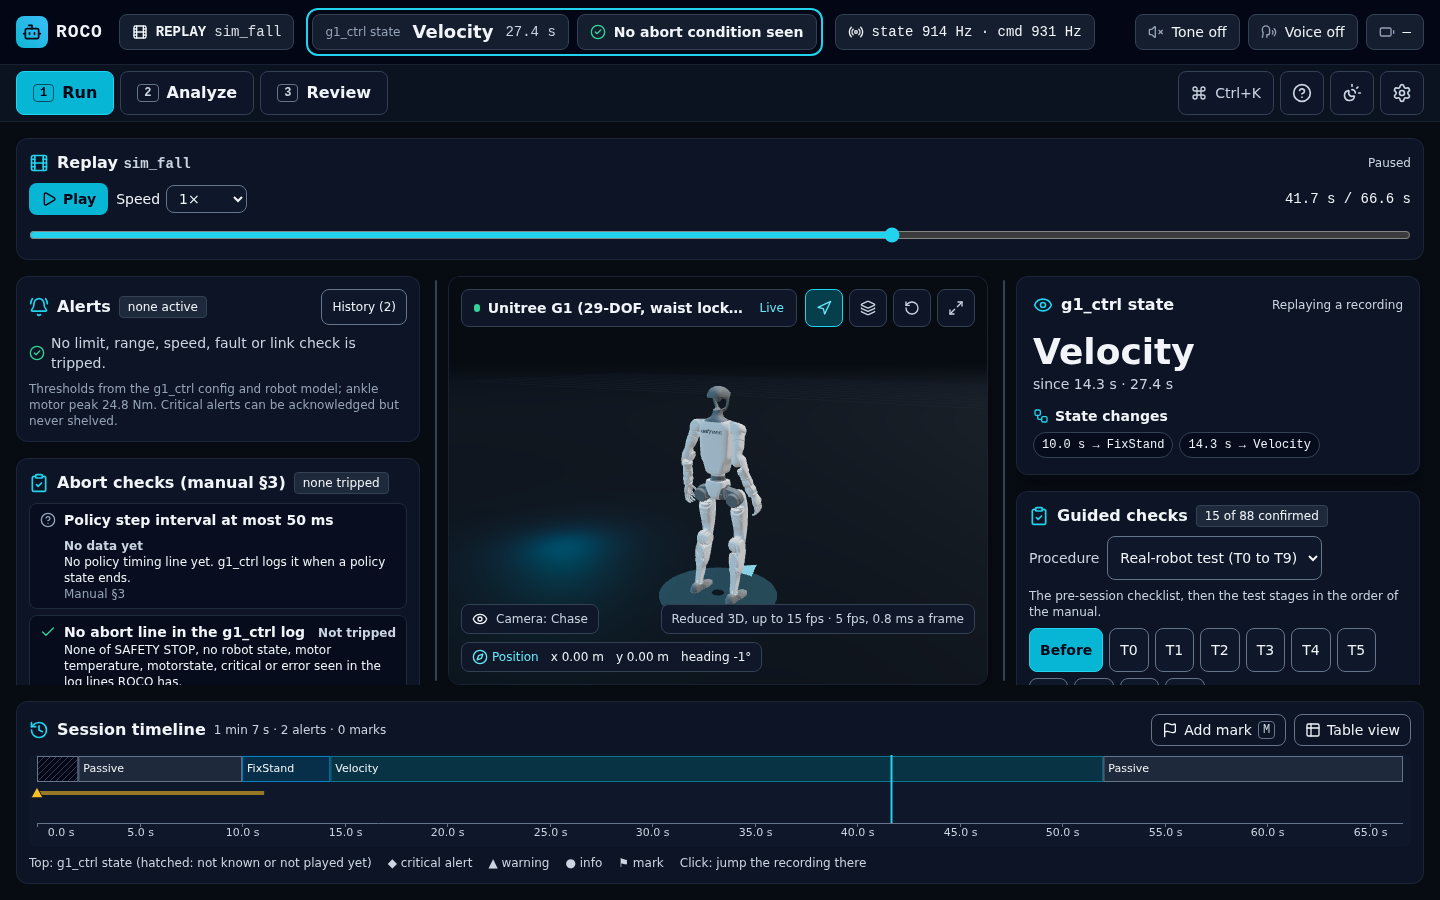
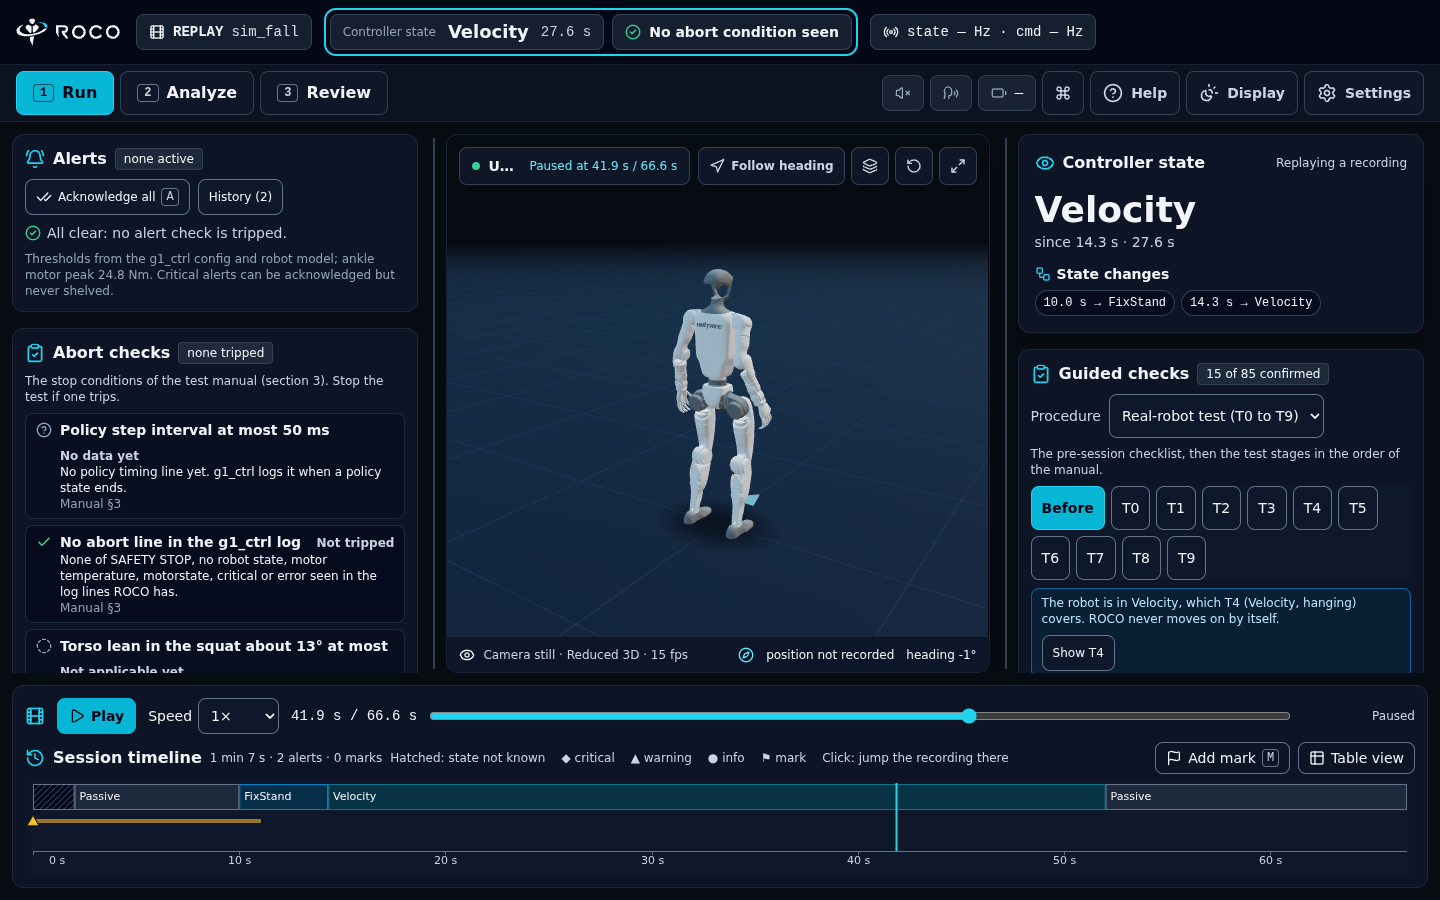
Changes in the docs and images

diff --git a/docs/operator-test/glance-drill.html b/docs/operator-test/glance-drill.html
@@ -53,7 +53,7 @@
     <fieldset>
       <legend>What does the screen show that needs attention? Tick everything that applies.</legend>
       <label><input type="checkbox" name="what" value="none"> Nothing: no abort condition seen</label>
-      <label><input type="checkbox" name="what" value="limits"> Stage limits crossed (the red count)</label>
+      <label><input type="checkbox" name="what" value="limits"> Guided-check limits crossed (the red count)</label>
       <label><input type="checkbox" name="what" value="alert"> An alert (warning or critical)</label>
     </fieldset>
     <label>Anything else you noticed or could not tell (not scored) <input type="text" id="note" size="50"></label>
@@ -82,16 +82,16 @@
   'use strict'
   /* The truth for each picture is what the screen itself showed when the picture was taken (see the "taken" notes). */
   const SCENES = [
-    { id: 'A', file: 'drill/A.png', state: 'FixStand', what: ['none'], taken: 'real robot log, squat_cal16, about 19.5 s' },
-    { id: 'B', file: 'drill/B.png', state: 'Velocity', what: ['none'], taken: 'real robot log, squat_cal16, about 42 s' },
-    { id: 'C', file: 'drill/C.png', state: 'squat', what: ['limits'], taken: 'real robot log, squat_cal16, about 82 s' },
-    { id: 'D', file: 'drill/D.png', state: 'Velocity', what: ['limits'], taken: 'real robot log, squat_cal16, about 114 s' },
-    { id: 'E', file: 'drill/E.png', state: 'Passive', what: ['limits'], taken: 'real robot log, squat_cal16, about 230 s, no alert active at that moment' },
-    { id: 'F', file: 'drill/F.png', state: 'Velocity', what: ['none'], taken: 'SIM: commanded Passive collapse, about 42 s, before the collapse' },
-    { id: 'G', file: 'drill/G.png', state: 'Passive', what: ['alert'], taken: 'SIM: commanded Passive collapse, about 59.5 s, 5 critical' },
+    { id: 'A', file: 'drill/A.png', state: 'FixStand', what: ['none'], taken: 'real robot log, squat_cal16, 19.6 s' },
+    { id: 'B', file: 'drill/B.png', state: 'Velocity', what: ['none'], taken: 'real robot log, squat_cal16, 42.0 s' },
+    { id: 'C', file: 'drill/C.png', state: 'squat', what: ['limits'], taken: 'real robot log, squat_cal16, 82.5 s' },
+    { id: 'D', file: 'drill/D.png', state: 'Velocity', what: ['limits'], taken: 'real robot log, squat_cal16, 114.1 s' },
+    { id: 'E', file: 'drill/E.png', state: 'Passive', what: ['limits'], taken: 'real robot log, squat_cal16, 230.0 s, no alert active at that moment' },
+    { id: 'F', file: 'drill/F.png', state: 'Velocity', what: ['none'], taken: 'SIM: commanded Passive collapse, 41.9 s, before the collapse' },
+    { id: 'G', file: 'drill/G.png', state: 'Passive', what: ['alert'], taken: 'SIM: commanded Passive collapse, 59.6 s, 5 critical, first: Tilt' },
   ]
   const STATES = ['Passive', 'FixStand', 'Velocity', 'squat', 'Not sure']
-  const WHAT = { none: 'nothing', limits: 'stage limits crossed', alert: 'an alert' }
+  const WHAT = { none: 'nothing', limits: 'guided-check limits crossed', alert: 'an alert' }
   const $ = (id) => document.getElementById(id)
   let order = [], idx = 0, results = [], pid = 'ME', shown = false, mode = 'timed', flashMs = 2000, t0 = 0, endTimer = null, live = false, lastMs = 0, timedOut = false
   const MAX_MS = 20000

diff --git a/src/utils/monitorFormat.ts b/src/utils/monitorFormat.ts
@@ -72,7 +72,7 @@ export function statsPassNote(state: MonitorState): string | null {
 
 /**
  * What the 3D view's badge says while data is replayed: where the recording is, instead of "Live". Null when this is not a replay.
- * The position reads "Replay 198.8 s / 236.2 s" (no end time until the bridge has indexed the file).
+ * The position reads "Replay 198.8 s / 236.2 s", or "Paused at 198.8 s / 236.2 s" (no end time until the bridge has indexed the file).
  */
 export function replayBadge(state: MonitorState): string | null {
   const r = state.replay
@@ -81,7 +81,7 @@ export function replayBadge(state: MonitorState): string | null {
   if (r.ended) return 'Replay ended'
   const at = formatDataTime(r.t, state)
   const where = r.t1 !== null ? `${at} / ${formatDataTime(r.t1, state)}` : at
-  return r.playing ? `Replay ${where}` : `Replay paused at ${where}`
+  return r.playing ? `Replay ${where}` : `Paused at ${where}`
 }
 
 /** Why plots and rates show nothing in a replay that is not moving: "Paused at 198.8 s", "Replay ended", "Seeking…". Null otherwise. */

diff --git a/src/components/DigitalTwin.tsx b/src/components/DigitalTwin.tsx
@@ -959,11 +959,12 @@ export function DigitalTwin({ status, activeProfile, selectedJointId, quality = 
                 : 'bg-warn'
             }`}
           />
-          <span className="font-semibold text-ink truncate min-w-0">
+          {/* the robot's name only takes the room left over (basis 0), so the replay position stays readable; the position truncates last */}
+          <span className="font-semibold text-ink truncate min-w-0 flex-1">
             {profile.name}
             <span className="hidden sm:inline"> · Digital twin</span>
           </span>
-          <span className="text-accent-ink text-xs hidden sm:inline shrink-0">{statusLabel}</span>
+          <span className="text-accent-ink text-xs hidden sm:inline truncate min-w-0" title={statusLabel}>{statusLabel}</span>
         </div>
 
         <div className="flex items-center gap-1.5 pointer-events-auto shrink-0">

diff --git a/docs/operator-test/PROTOCOL.md b/docs/operator-test/PROTOCOL.md
@@ -49,23 +49,23 @@ the screen, uncovers it for 2 seconds by the clock, covers it again.
 
 Ask: "What state is the robot in? Does the screen show anything wrong, and if so what? What is the next step?"
 
-Answer key, from a capture on 2026-11-03 (replay played at 8× to 16 s before the target, then 1×; the frozen screen was
-read). Rehearse again on your build and correct this table before the first participant:
+Answer key, from a capture on 2026-11-12 with the v0.1.1 build (replay played at 8× to 16 s before the target, then 1×; the
+frozen screen was read). Rehearse again on your build and correct this table before the first participant:
 
 | Scene | Pause at (picture shows) | Robot state | Status bar says | Alert panel |
 |---|---|---|---|---|
-| A | 17 s (19.5 s) | FixStand | No abort condition seen | none active |
+| A | 17 s (19.6 s) | FixStand | No abort condition seen | none active |
 | B | 40 s (42.0 s) | Velocity | No abort condition seen | none active |
-| C | 80 s (82.3 s) | squat | 2 guided-check limits crossed | none active |
-| D | 112 s (113.8 s) | Velocity | 5 guided-check limits crossed | none active |
+| C | 80 s (82.5 s) | squat | 2 guided-check limits crossed | none active |
+| D | 112 s (114.1 s) | Velocity | 5 guided-check limits crossed | none active |
 | E | 228 s (230.0 s) | Passive | 5 guided-check limits crossed | none active (History 2) |
 
 Add two scenes from the simulator fall recording (see task 2), played from 0 and paused at the time shown:
 
 | Scene | Pause at | Robot state | Status bar says |
 |---|---|---|---|
-| F | 40 s (41.7 s) | Velocity | No abort condition seen |
-| G | 58 s (59.5 s) | Passive | 5 critical, first: Joint range · Right Ankle Pitch (5 after Passive) |
+| F | 40 s (41.9 s) | Velocity | No abort condition seen |
+| G | 58 s (59.6 s) | Passive | 5 critical, first: Tilt (5 after Passive) |
 
 The "guided-check limits crossed" in scenes C to E are the real-robot procedure's own stop limits (for example ankle pitch
 torque 29.8 Nm in the squat against the manual's 15 Nm limit), evaluated by the guided checks. No abort check and no alert
@@ -77,10 +77,10 @@ The answer key depends on the pause time. Pausing overshoots the time asked by a
 above. If you pause live for a human observer, re-read the screen at the moment you pause and write that down, rather than
 trusting the table.
 
-The pictures in `drill/`, used by `glance-drill.html`, show an older design of the Run screen: a two-row top bar, a chip
-that reads "N stage limits crossed" (now "N guided-check limits crossed") and guided checks out of 88 (now 85). Re-capture
-them from the current build before a real run. The drill rows in `results.csv` (ID `P1`) were made on even older pictures
-and are a baseline for that design only.
+The pictures in `drill/`, used by `glance-drill.html`, were taken from the v0.1.1 build on 2026-11-12, at the times in the
+"picture shows" column, and match the tables above. If the Run screen changes, take them again before a real run. The drill
+rows in `results.csv` (ID `P1`) were made on pictures of an older design (a two-row top bar, a chip that read "N stage limits
+crossed", guided checks out of 88) and are a baseline for that design only.
 
 Scene G is the only critical-alert scene, and it comes from a simulator run (the real controller, a simulated robot).
 
@@ -96,13 +96,14 @@ Play from 0 at 4×, pause at 63 s.
 
 Ask: "Something went wrong in this recording. Which alert came first, what caused it, and what does the screen say to do?"
 
-Answer key, from the rehearsal on 2026-11-03:
+Answer key, from the rehearsal on 2026-11-03, re-read on 2026-11-12 with the v0.1.1 build:
 - Cause: `keyboard abort 'p' -> Passive` at 52.0 s. ROCO labels the alerts that follow as "after the change to Passive".
-- First alert: Joint range, right ankle pitch (52.4 s; the left ankle pitch tripped at the same time). ROCO pins it as the first-out
-  and marks it "First after Passive". Accept either ankle pitch, or "the change to Passive" as the cause.
+- First alert: Tilt (52.4 s; both ankle pitch joint ranges tripped at the same time). ROCO pins it as the first-out and marks it
+  "First after Passive" (the 2026-11-03 build pinned the right ankle pitch). Accept tilt, either ankle pitch, or "the change to
+  Passive" as the cause.
 - What to do, as the alert says: abort with LT+B or `p` if still in a policy state; after a fall, check the robot on the rope (manual §3).
-- By 63 s the status bar reads "7 critical", and the first-out shown has moved to the right ankle roll, because ROCO starts a
-  new burst after a 2 s quiet gap. Watch whether people are misled by that; note it either way.
+- By 63 s the status bar reads "6 critical · 1 warning", and the first-out shown has moved to the left ankle roll (59.7 s),
+  because ROCO starts a new burst after a 2 s quiet gap. Watch whether people are misled by that; note it either way.
 
 Time from "go" to the answer. Target: under 10 s. `pass` = named an accepted first alert, or the change to Passive as the cause.
 This is a rehearsal-style fall with a command to Passive, not a fall with the policy still running, so say so to the team

diff --git a/CHANGELOG.md b/CHANGELOG.md
@@ -3,6 +3,16 @@
 All notable changes to ROCO. The format follows [Keep a Changelog](https://keepachangelog.com/en/1.1.0/), and versions follow
 [Semantic Versioning](https://semver.org/).
 
+## [Unreleased]
+
+### Fixed
+- The 3D view's badge while a replay is paused ("Paused at 82.5 s / 236.2 s") stays inside its box: the robot's name gives way
+  first. It ran past the edge on recordings of a few minutes at 1366 and 1440 px.
+
+### Changed
+- Operator test: the glance-drill pictures are retaken from the current page, and the answer keys for tasks 1 and 2 are
+  re-read (the simulated fall's first alert now shows as Tilt, at the same moment as the ankle pitch ranges).
+
 ## [0.1.1] - 2026-11-12
 
 A clearer page, a 3D robot that stands on the floor, and a hosted demo that crosses no limit.
